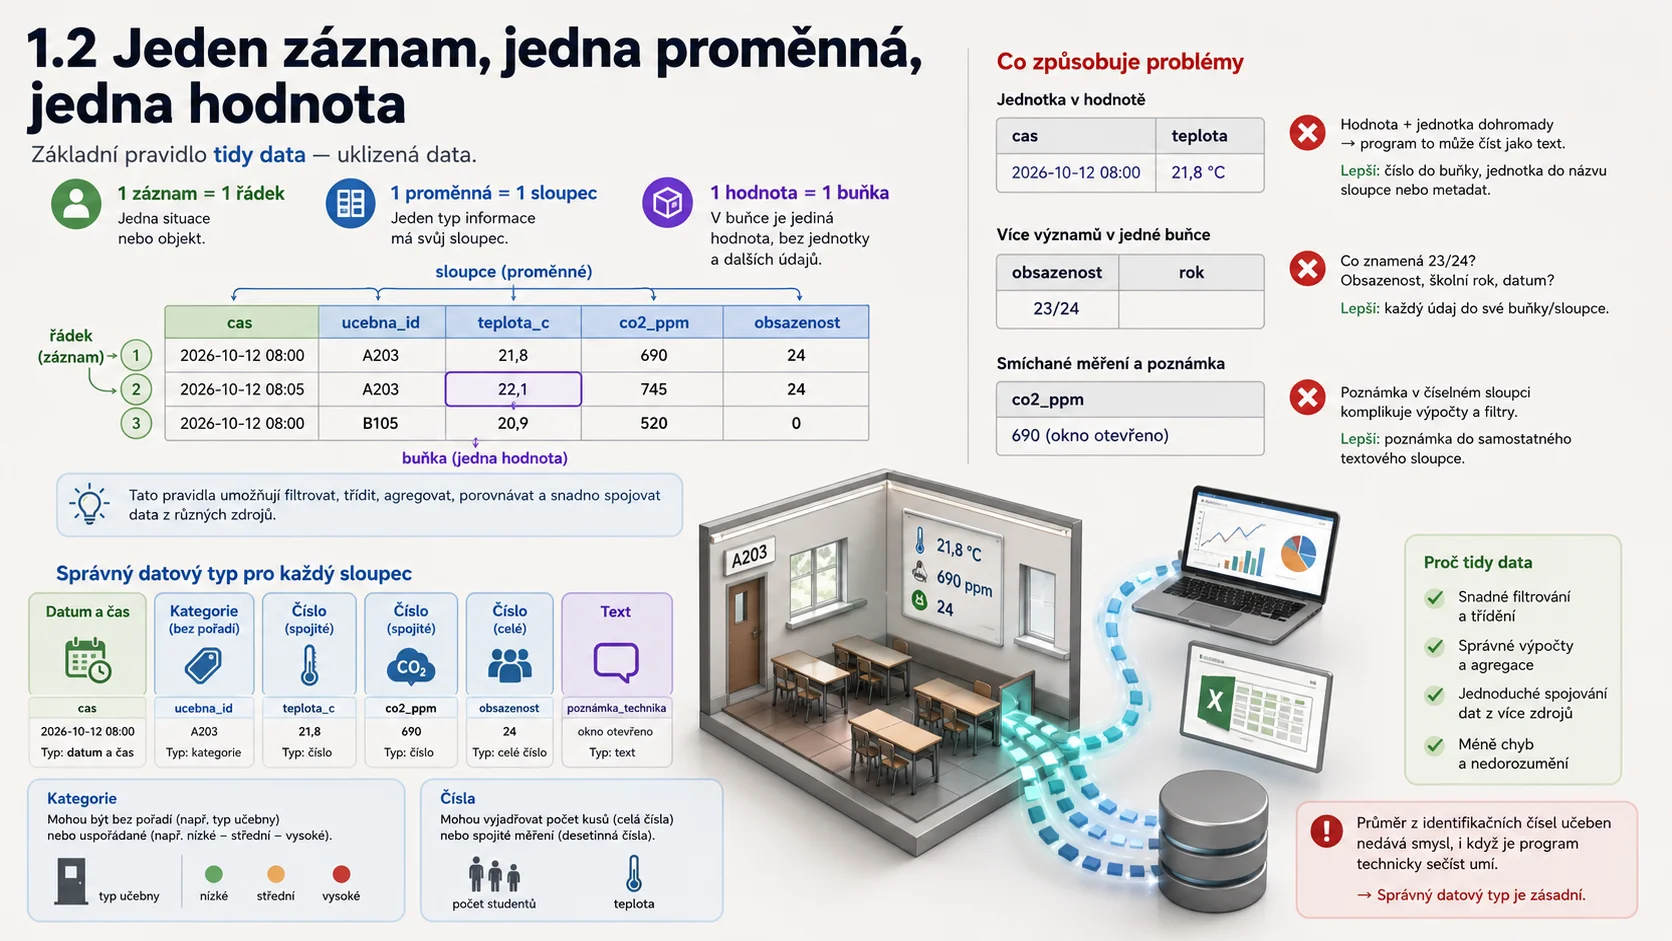
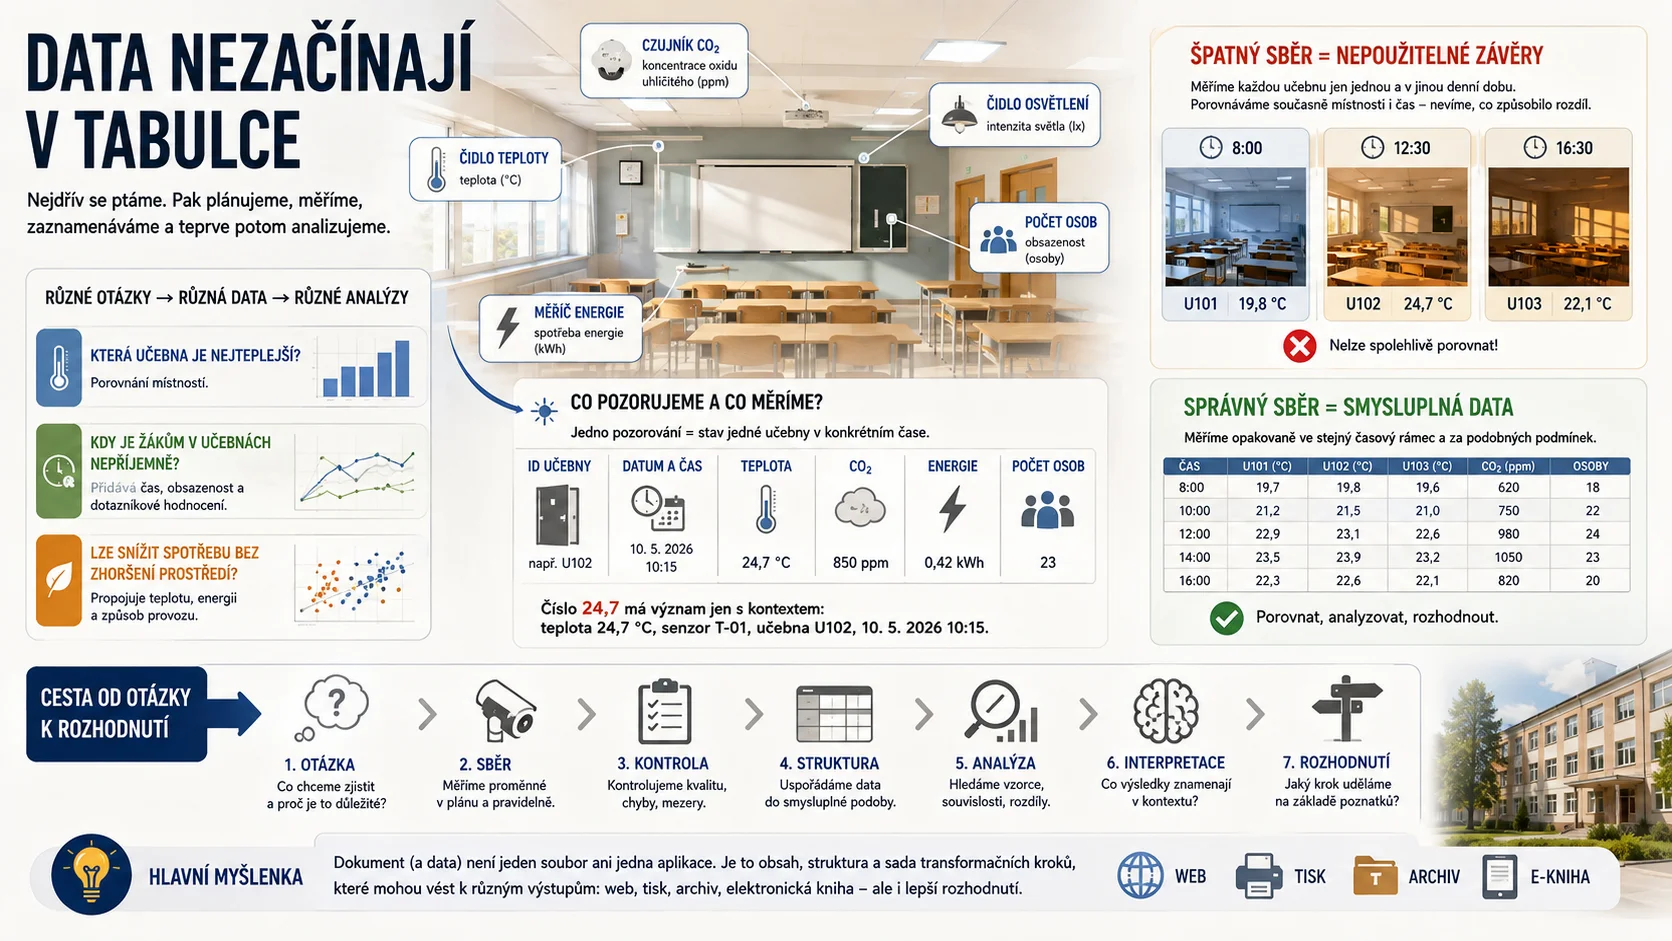
7-lekce-grafika-oprava

diff --git a/07-prace-s-daty-a-tabulkove-procesory/1-lekce/prezentace.md b/07-prace-s-daty-a-tabulkove-procesory/1-lekce/prezentace.md
@@ -26,11 +26,11 @@ Formát 16:9, ideálně 1600 × 900 px. Profesionální encyklopedická grafika 
 
 ***
 Zpracuj v podobě encyklopedické grafiky tuto kapitolu:
-
+Jeden záznam, jedna proměnná, jedna hodnota
 -----
 Vycházej z tohoto textu, ale k vyjádření obsahu používej hlavně grafické prvky:
------
-**## 1.2 Jeden záznam, jedna proměnná, jedna hodnota
+
+-
 
 Pro analýzu je nejpraktičtější **obdélníková datová tabulka**. Jeden řádek představuje jeden záznam, jeden sloupec jednu proměnnou a jedna buňka jednu hodnotu. Tento způsob uspořádání se často označuje jako **tidy data — uklizená data**.
 

diff --git a/TEXTBOOK-BUILD-REPORT.md b/TEXTBOOK-BUILD-REPORT.md
@@ -1,6 +1,6 @@
 # TEXTBOOK BUILD REPORT
 
-Datum: 2026-08-12T21:08:47.308314+00:00
+Datum: 2026-08-12T21:27:26.736506+00:00
 Git commit: NEOVĚŘENO (repozitář není Git pracovní kopie)
 
 - Témata: 20
